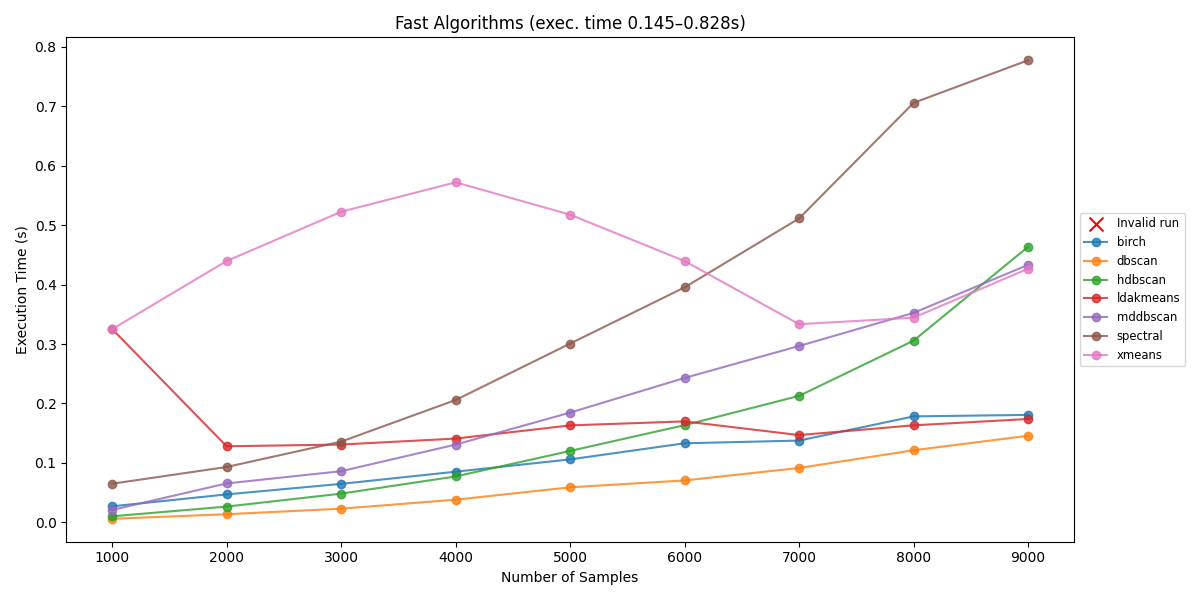
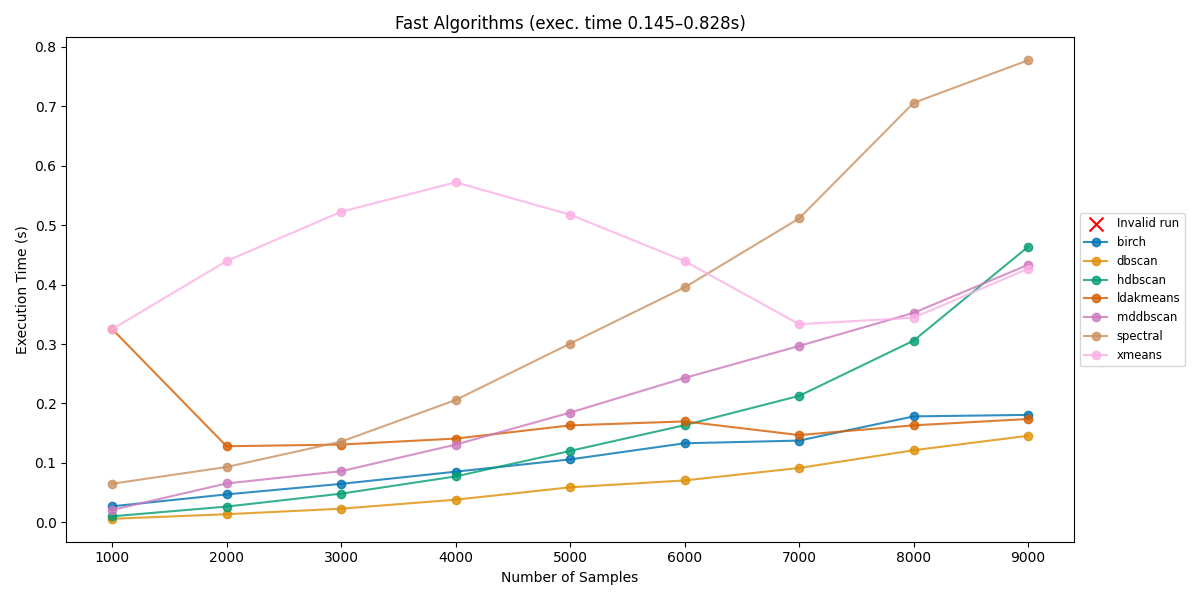
color fix in time analysis

diff --git a/main_time_plot_dimensions.py b/main_time_plot_dimensions.py
@@ -2,6 +2,7 @@ import numpy as np
 import pandas as pd
 import matplotlib.pyplot as plt
 import seaborn as sns
+from cycler import cycler
 
 df = pd.read_csv("./results/time_analysis_dimensions.csv")
 df["features"] = df["dataset"].str.extract(r"D3_(\d+)").astype(int)
@@ -12,17 +13,14 @@ score_cols = [
 ]
 df["is_invalid"] = df[score_cols].eq(-1).all(axis=1)
 
-# 2. Compute each algorithm’s max execution time
 algo_max = df.groupby("algorithm")["execution_time"].max()
 
-# 3. Split algorithms into fast (<10s) vs slow (>=10s)
 fast_algos = algo_max[algo_max < 10].index
 slow_algos = algo_max[algo_max >= 10].index
 
 fast_df = df[df["algorithm"].isin(fast_algos)].copy()
 slow_df = df[df["algorithm"].isin(slow_algos)].copy()
 
-# 4. Bin the fast algorithms by their max exec time quartiles
 quantiles = algo_max.loc[fast_algos].quantile([0, .25, .5, .75, 1.0]).values
 edges = np.unique(quantiles)
 labels = [f"{edges[i]:.3f}–{edges[i+1]:.3f}s" for i in range(len(edges)-1)]
@@ -34,19 +32,29 @@ fast_df["max_time_bin"] = fast_df["algorithm"].map(algo_to_fastbin)
 
 def plot_group(subdf, title, save_file):
     plt.figure(figsize=(12, 6))
-    # dummy for invalid legend
+
+    algos = sorted(subdf["algorithm"].unique())
+
+    M = 10
+    colors = sns.color_palette("colorblind", n_colors=M)
+    markers    = ['o']
+    linestyles = ['solid', 'dashed', 'dashdot', 'dotted']
+
+    plt.rc('axes', prop_cycle=cycler('linestyle', linestyles) * cycler('color', colors) * cycler('marker', markers))
+
     plt.scatter([], [], marker='x', c='red', s=100, label="Invalid run")
-    for algo in sorted(subdf["algorithm"].unique()):
+
+    for algo in algos:
         d = subdf[subdf["algorithm"] == algo].sort_values("features")
-        # valid points
         valid = d
         plt.plot(valid["features"], valid["execution_time"],
-                 label=algo, marker="o", linestyle="-", alpha=0.8)
-        # invalid points
+                 label=algo, alpha=0.8)
+
         inval = d[d["is_invalid"]]
         if not inval.empty:
             plt.scatter(inval["features"], inval["execution_time"],
-                        marker="x", c="red", s=100)
+                        marker='x', c='red', s=100)
+
     plt.title(title)
     plt.xlabel("Number of Features")
     plt.ylabel("Execution Time (s)")

diff --git a/main_time_plot_samples.py b/main_time_plot_samples.py
@@ -2,6 +2,7 @@ import numpy as np
 import pandas as pd
 import matplotlib.pyplot as plt
 import seaborn as sns
+from cycler import cycler
 
 df = pd.read_csv("./results/time_analysis_samples.csv")
 df["samples"] = df["dataset"].str.extract(r"D3_(\d+)").astype(int)
@@ -35,23 +36,32 @@ fast_df["max_time_bin"] = fast_df["algorithm"].map(algo_to_fastbin)
 # 5. Plot helper
 def plot_group(subdf, title, save_file):
     plt.figure(figsize=(12, 6))
-    # dummy for invalid legend
+
+    algos = sorted(subdf["algorithm"].unique())
+
+    M = 10
+    colors = sns.color_palette("colorblind", n_colors=M)
+    markers    = ['o']
+    linestyles = ['solid', 'dashed', 'dashdot', 'dotted']
+
+    plt.rc('axes', prop_cycle=cycler('linestyle', linestyles) * cycler('color', colors) * cycler('marker', markers))
+
     plt.scatter([], [], marker='x', c='red', s=100, label="Invalid run")
-    for algo in sorted(subdf["algorithm"].unique()):
+
+    for algo in algos:
         d = subdf[subdf["algorithm"] == algo].sort_values("samples")
-        # valid points
         valid = d
         plt.plot(valid["samples"], valid["execution_time"],
-                 label=algo, marker="o", linestyle="-", alpha=0.8)
-        # invalid points
+                 label=algo, alpha=0.8)
+
         inval = d[d["is_invalid"]]
         if not inval.empty:
             plt.scatter(inval["samples"], inval["execution_time"],
-                        marker="x", c="red", s=100)
+                        marker='x', c='red', s=100)
+
     plt.title(title)
     plt.xlabel("Number of Samples")
     plt.ylabel("Execution Time (s)")
-    # plt.grid(True)
     plt.legend(loc="center left", bbox_to_anchor=(1, 0.5), fontsize="small")
     plt.tight_layout()
     plt.savefig(f"./paper/time_samples/{save_file}.png")
